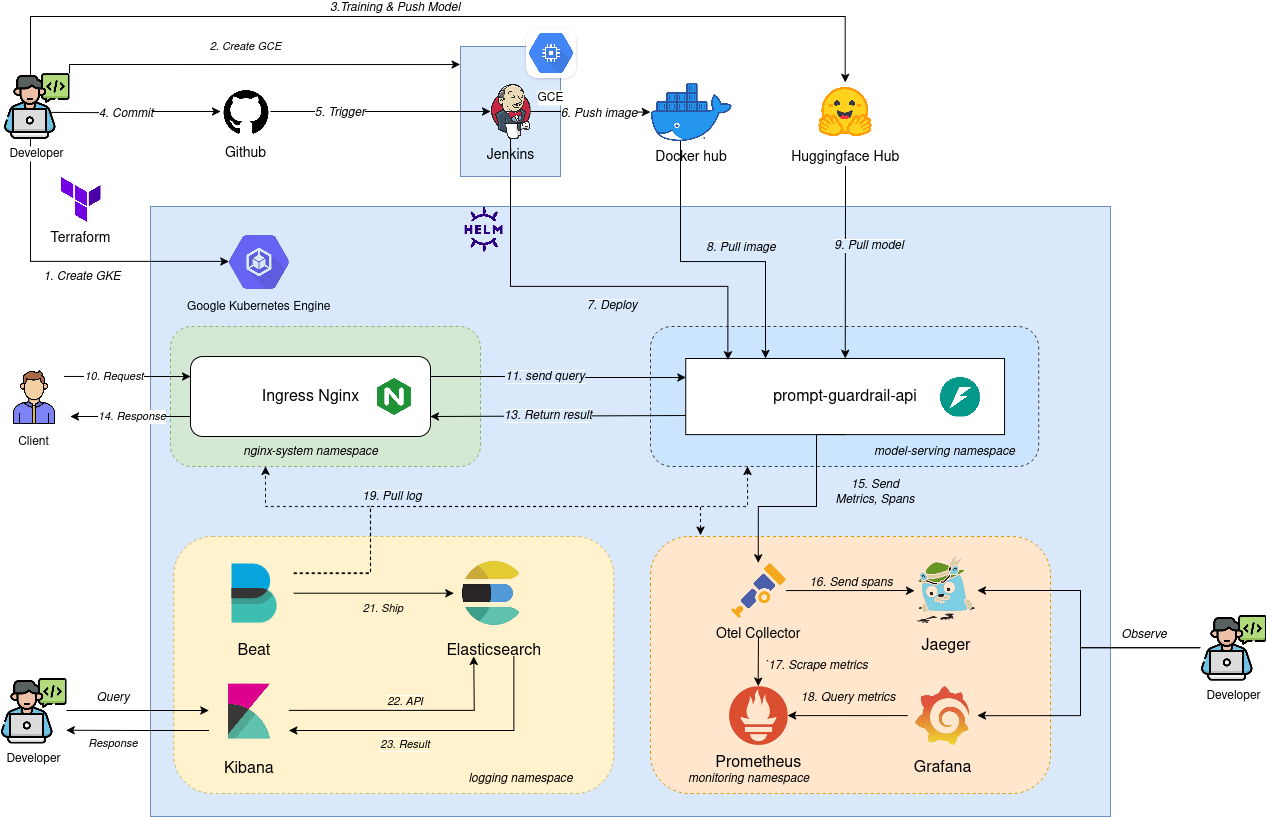
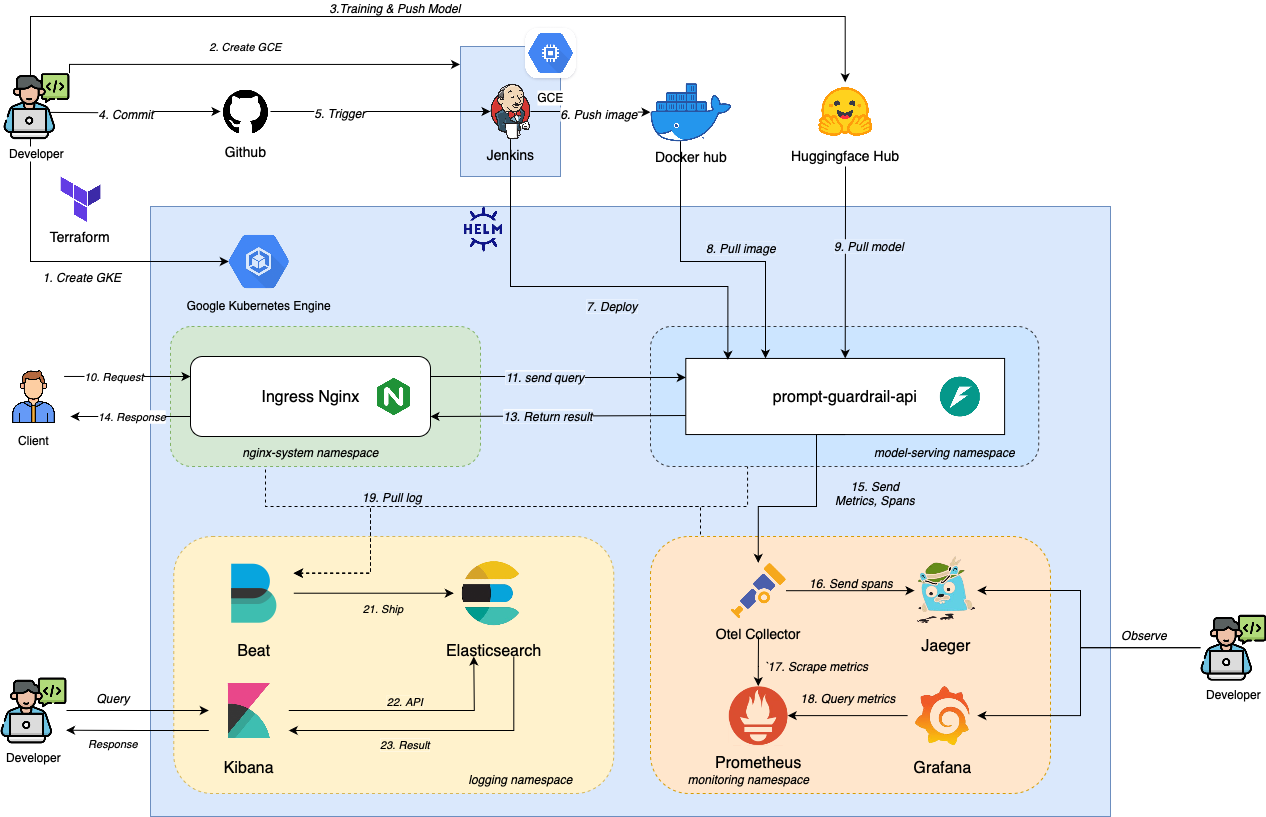
Change direction of pull log in architecture image

diff --git a/README.md b/README.md
@@ -14,7 +14,7 @@
 
 Welcome to the architectural blueprint of our system! This section provides an overview of how we orchestrate services using Kubernetes, ensuring scalability, resilience, and observability.
 
-![](assets/mlops1_architecture.png)
+![](assets/mlops1_architecture.jpg)
 
 
 ---
